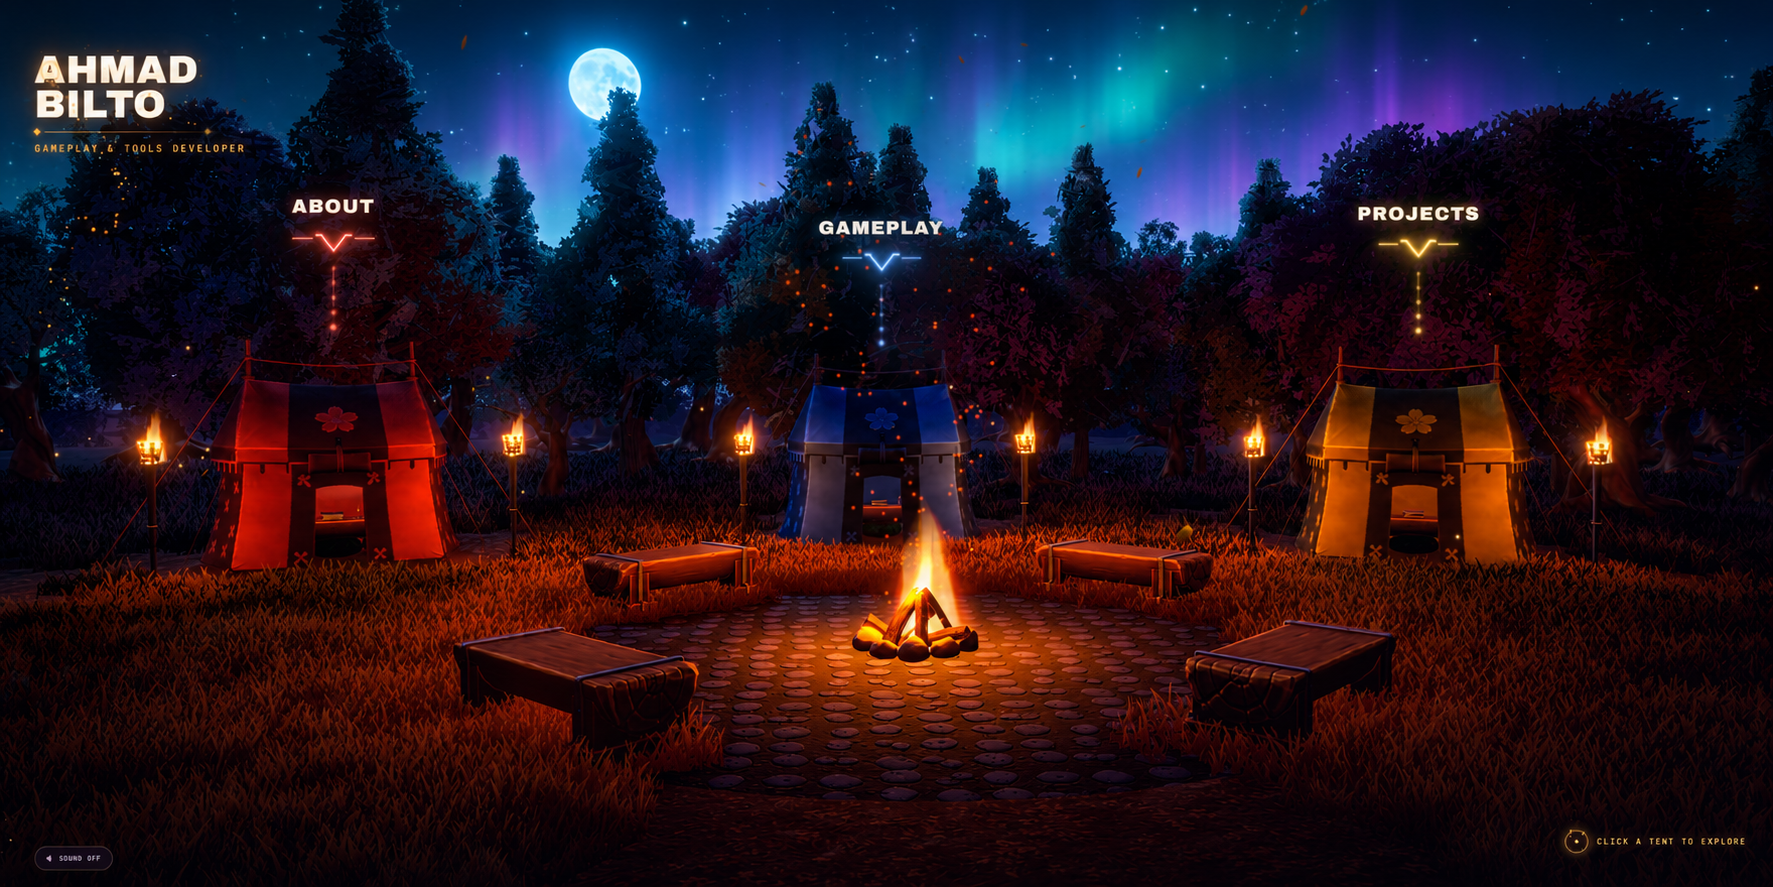
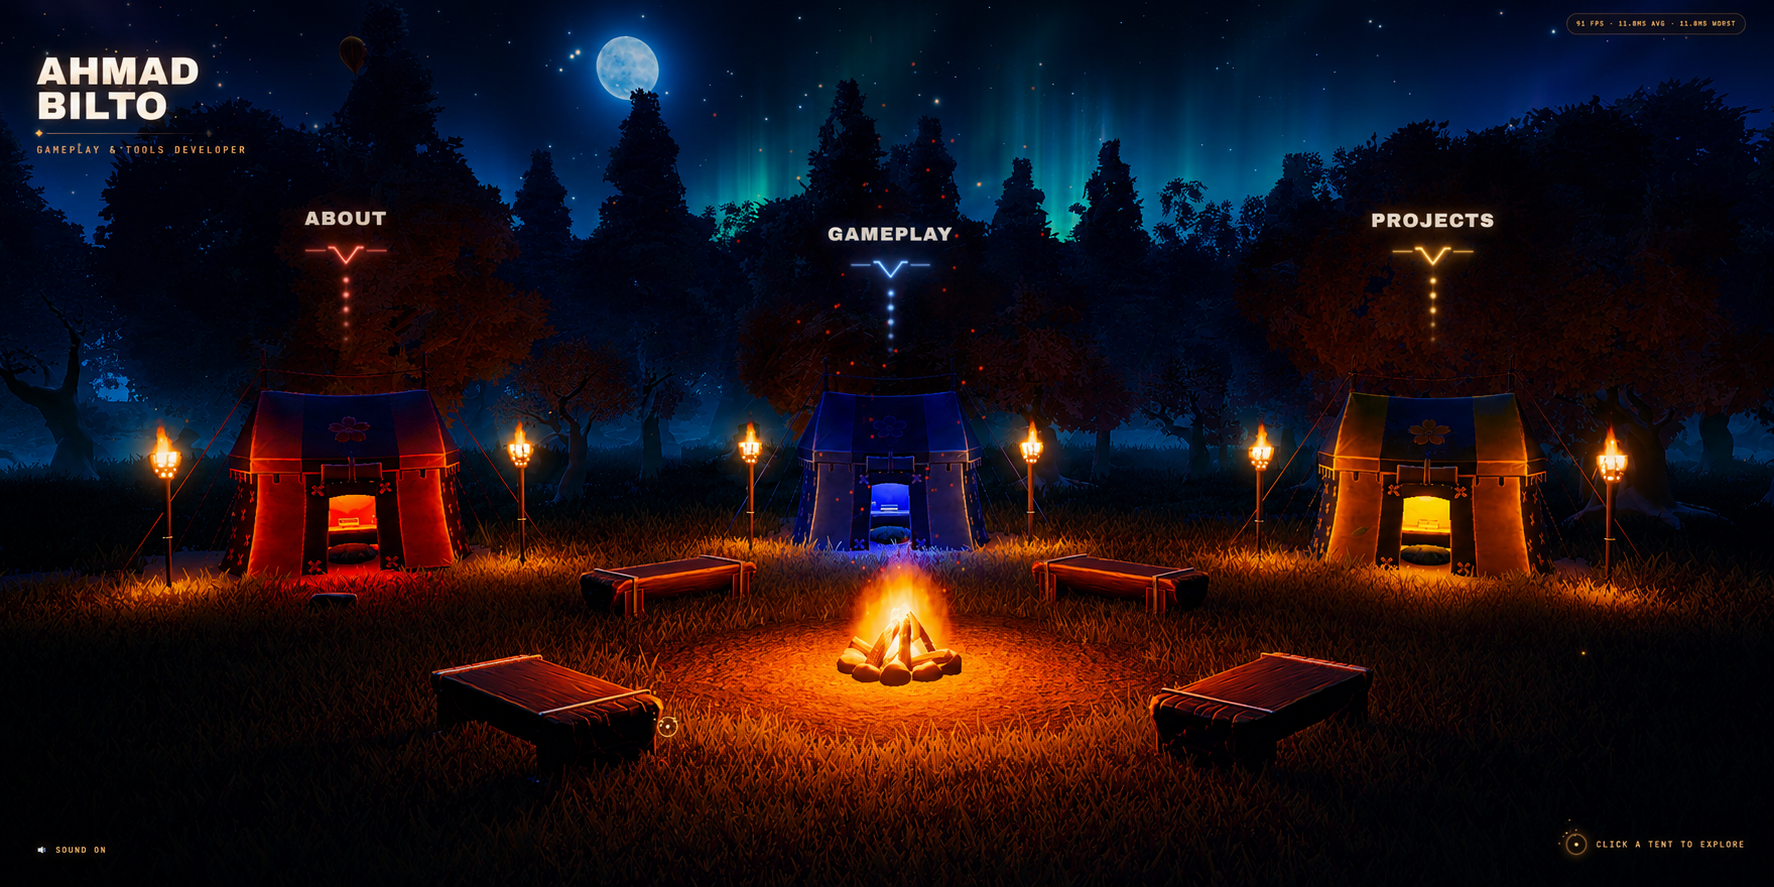
lighting: cool hemisphere/ambient, push split-tone shadow bluer (item 1)

diff --git a/src/three/CampHero.tsx b/src/three/CampHero.tsx
@@ -75,9 +75,15 @@ const NIGHT = {
    * tree the reader is looking at is turned away from the only directional
    * source in the scene. This is what keeps that face from being a hole.
    */
-  hemisphere: { sky: '#3f3c44', ground: '#0a0a08', intensity: 0.23 },
+  // LIGHTING-REWORK (2026-08-17): sky pushed from #3f3c44 (grey-warm) to a
+  // colder navy, ground from #0a0a08 to a blue-black. imagestats on the
+  // outer-grass corner (item a) showed a faint warm cast where the target is
+  // near-neutral/cool at the same near-black luminance — this is a small,
+  // low-cost push in that direction. See LIGHTING_TUNING.md.
+  hemisphere: { sky: '#2a3050', ground: '#070a14', intensity: 0.23 },
   /** The last resort against crushed black. Very small. */
-  ambient: { intensity: 0.05, color: '#22345e' },
+  // LIGHTING-REWORK (2026-08-17): #22345e -> #1c2c5c, same intensity.
+  ambient: { intensity: 0.05, color: '#1c2c5c' },
   /**
    * Depth haze. See campsite/fog.ts — this is height fog, not distance fog.
    *

diff --git a/src/three/campsite/grade.ts b/src/three/campsite/grade.ts
@@ -65,9 +65,13 @@ export interface SplitToneOptions {
  */
 export class SplitToneEffect extends Effect {
   constructor({
-    shadow = new THREE.Color('#2c56b4'),
+    // LIGHTING-REWORK (2026-08-17): #2c56b4/0.048 -> #2748c8/0.065. Region
+    // averages against the new target reference showed the current frame's
+    // dark end reading warmer than target at the same luminance (item a).
+    // See LIGHTING_TUNING.md.
+    shadow = new THREE.Color('#2748c8'),
     highlight = new THREE.Color('#ff9a3c'),
-    shadowAmount = 0.048,
+    shadowAmount = 0.065,
     highlightAmount = 0.06,
   }: SplitToneOptions = {}) {
     super('SplitToneEffect', FRAG, {
